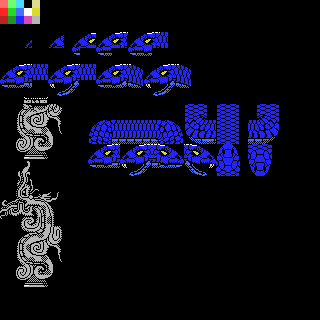
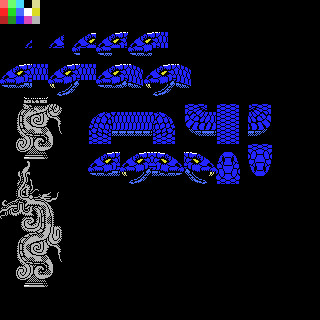
phase 2 snake drawing routine working, and added phase 2 collision map for boss 7

Changed region(s): [[0.25, 0.3125, 0.75, 0.5938], [0.75, 0.3125, 0.875, 0.4688]]

diff --git a/java/src/xspelunker2/Bosses.java b/java/src/xspelunker2/Bosses.java
@@ -890,7 +890,7 @@ public class Bosses {
             }            
             // phase 2 snake tiles:
             nameTableBoxes.clear();
-            nameTableBoxes.add(new int[]{88, 104, 280, 168});
+            nameTableBoxes.add(new int[]{88, 104, 280, 184});
             List<int[][]> nametables_phase2 = addBossTilesInGapsForBoxes(nameTableBoxes, baseImage, boss7Tiles, availableTiles, collision, false, false);
             
             // broken statue:
@@ -905,6 +905,13 @@ public class Bosses {
             addNameTable(nameTable, 12, 0, 16, 5, nameTableData_snake);  // u-r / r-u
             addNameTable(nameTable, 16, 0, 20, 5, nameTableData_snake);  // u-d / d-u
             addNameTable(nameTable, 20, 0, 24, 5, nameTableData_snake);  // l-u / u-l
+
+            addNameTable(nameTable, 0, 5, 4, 10, nameTableData_snake);  // head left
+            addNameTable(nameTable, 4, 5, 8, 10, nameTableData_snake);  // head left mouth
+            addNameTable(nameTable, 8, 5, 12, 10, nameTableData_snake);  // head right
+            addNameTable(nameTable, 12, 5, 16, 10, nameTableData_snake);  // head right mouth
+            addNameTable(nameTable, 16, 5, 20, 10, nameTableData_snake);  // head up
+            addNameTable(nameTable, 20, 5, 24, 10, nameTableData_snake);  // head down
             
             for(int i = 0;i<16;i++) {
                 String line = "    db ";
